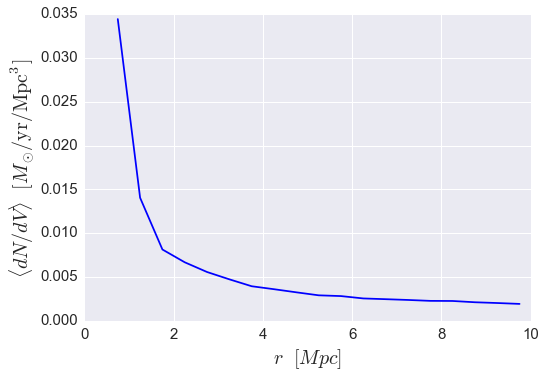
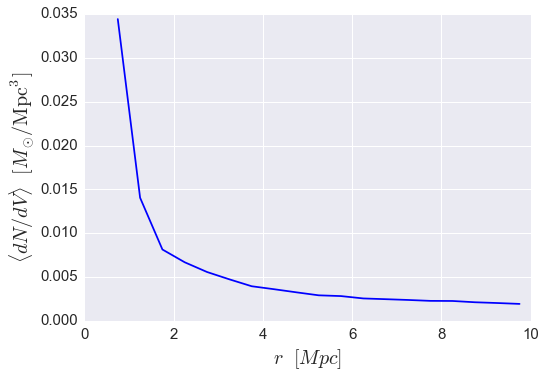
Cleaned up documentation of radial_profile_3d so that radial_profile_halocat_tutorial_fig2.png y-axis has correct units. Resolved redundancy in the appearance of halo_catalog_analysis_tutorial1.ipynb in two different locations

Changed region(s): [[0.0, 0.1455, 0.0624, 0.7275]]

diff --git a/docs/quickstart_and_tutorials/tutorials/catalog_analysis/halocat_analysis/basic_examples/halo_catalog_analysis_tutorial2.rst b/docs/quickstart_and_tutorials/tutorials/catalog_analysis/halocat_analysis/basic_examples/halo_catalog_analysis_tutorial2.rst
@@ -138,7 +138,7 @@ bins linearly spaced in *r* between :math:`0.5 {\\rm Mpc} < r < 10 {\\rm Mpc}.`
     plt.plot(rbins_midpoints, mean_number_density, color='blue')
     
     plt.xlabel(r'$r$  $[Mpc]$', fontsize=20)
-    plt.ylabel(r'$\langle dN/dV \rangle$  $[M_{\odot}/{\rm yr/Mpc^{3}}]$', fontsize=20)
+    plt.ylabel(r'$\langle dN/dV \rangle$  $[M_{\odot}/{\rm Mpc^{3}}]$', fontsize=20)
     plt.xticks(size=15); plt.yticks(size=15)
 
 .. image:: figs/radial_profile_halocat_tutorial_fig2.png
